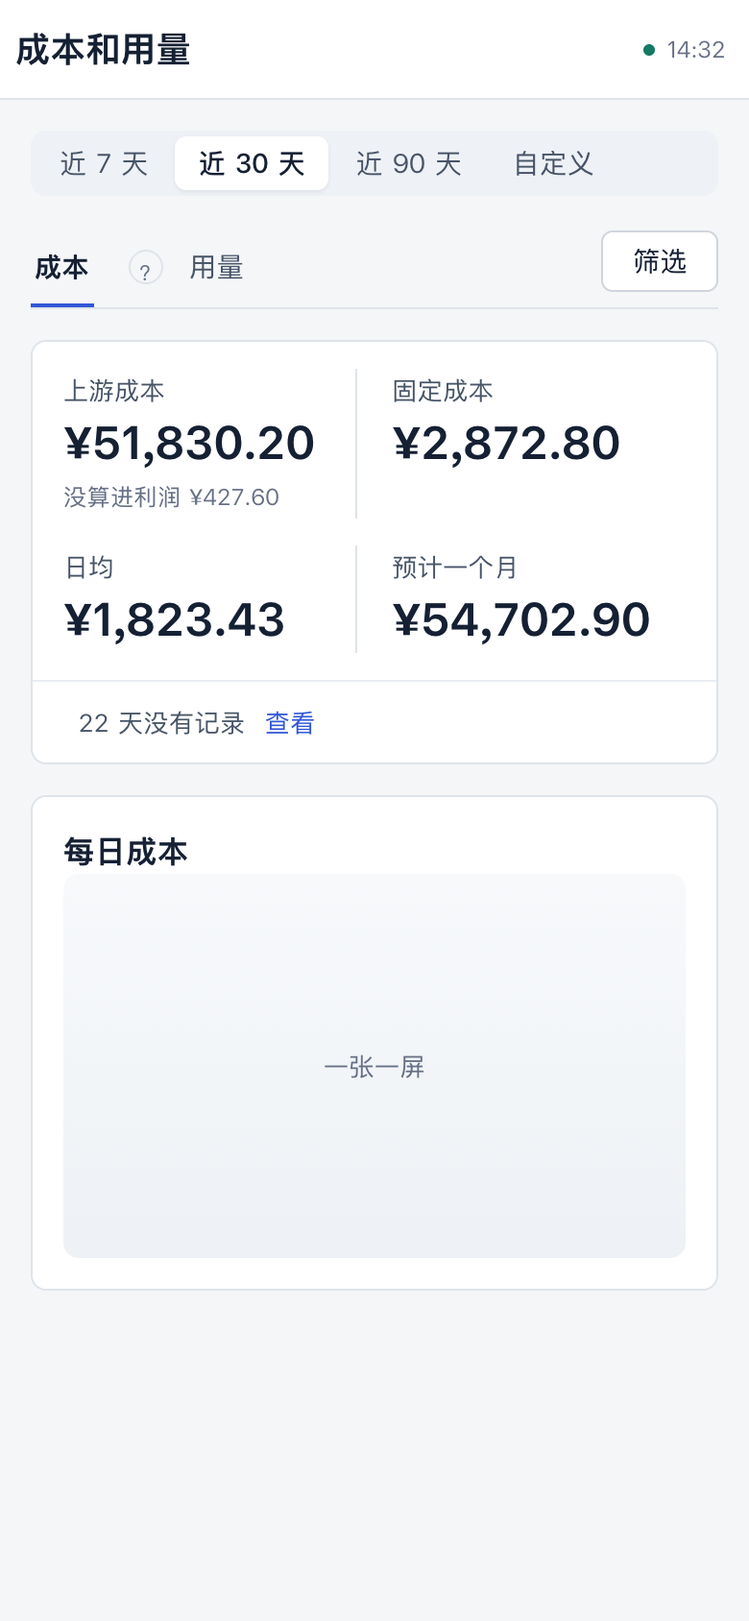
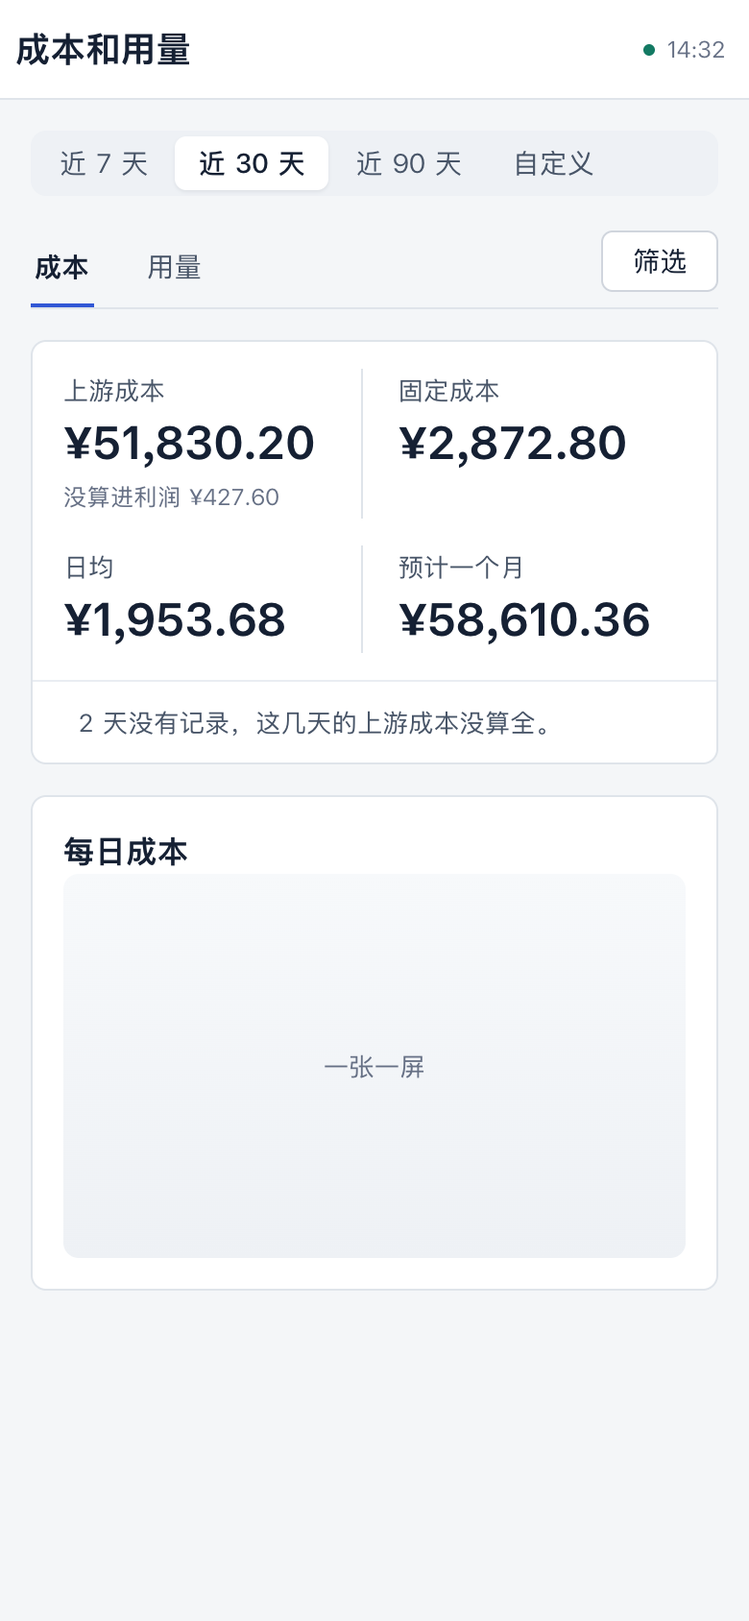
设计：合页照核对意见改——读不到、没算进去的数据、数字怎么来的照 §8.4 现成写法；趋势面板两个切换留原处；筛到自营站点留「消费」格；切页签清掉各页签自己的参数、记进历史；藏起来的页签不轮询；打包基线；测试要改的那条；样稿数据对齐；逐页版式第 6 节用量页签的排法

diff --git a/design/ux/merge-cost-usage.html b/design/ux/merge-cost-usage.html
@@ -275,18 +275,19 @@ pre.report mark { background: #FFF1C2; color: inherit; border-radius: 3px; paddi
     <div class="main">
       <header class="topbar"><h1>成本和用量</h1><div class="seg"><span>近 7 天</span><span class="on">近 30 天</span><span>近 90 天</span><span>自定义</span></div><span class="spacer"></span><span class="fresh"><i></i>数据截至 14:32</span><span class="avatar">A</span></header>
       <div class="content">
-        <div class="tabbar"><span class="t on">成本</span><span class="q">?</span><span class="t">用量</span><div class="right"><span class="chk"><i></i>包含已归档</span><span class="btn">每日利润</span></div></div>
+        <div class="tabbar"><span class="t on">成本</span><span class="t">用量</span><div class="right"><span class="chk"><i></i>包含已归档</span><span class="btn">每日利润</span></div></div>
+        <div class="oneline" style="border:0;padding:0 2px;background:none">这一页的数是按余额变化估出来的，不是上游的实际账单。<a>数字怎么来的 ›</a></div>
         <section class="panel">
           <div class="metricsN" style="grid-template-columns:repeat(4,1fr)">
             <div class="mc"><span>上游成本</span><b>¥51,830.20</b><small>算进利润 ¥51,402.60 · <a>没算进利润 ¥427.60 ›</a></small></div>
             <div class="mc"><span>固定成本</span><b>¥2,872.80</b><small>算进利润的 2 个上游，按天平摊</small></div>
-            <div class="mc"><span>日均</span><b>¥1,823.43</b><small>上游成本 + 固定成本</small></div>
-            <div class="mc"><span>预计一个月</span><b>¥54,702.90</b><small>按近 30 天的日均</small></div>
+            <div class="mc"><span>日均</span><b>¥1,953.68</b><small>按有记录的 28 天平均</small></div>
+            <div class="mc"><span>预计一个月</span><b>¥58,610.36</b><small>日均 × 30</small></div>
           </div>
-          <div class="oneline">22 天没有记录 <a>查看</a></div>
+          <div class="oneline">2 天没有记录，这几天的上游成本没算全。<a>哪些天、哪些上游缺记录</a></div>
         </section>
         <div style="display:grid;grid-template-columns:2fr 1fr;gap:24px">
-          <section class="panel"><div class="panel-head"><h2>每日成本</h2><span class="spacer"></span><div class="seg"><span class="on">每天</span><span>累计</span></div></div><div class="chartph">上游成本、固定成本按天；悬停写「成本最高的一天」</div></section>
+          <section class="panel"><div class="panel-head"><h2>每日成本</h2><span class="spacer"></span><div class="seg"><span class="on">每天</span><span>累计</span></div></div><div class="chartph">上游成本、固定成本按天；最高那根柱上标「最高 10月21日 ¥2,410.50」</div></section>
           <section class="panel"><div class="panel-head"><h2>成本构成</h2><span class="caption">按上游</span></div><div class="chartph">横向条形，照旧</div></section>
         </div>
         <div style="display:grid;grid-template-columns:2fr 1fr;gap:24px">
@@ -296,8 +297,8 @@ pre.report mark { background: #FFF1C2; color: inherit; border-radius: 3px; paddi
       </div>
     </div>
   </div>
-  <div class="ann t" style="left:282px;top:130px;max-width:260px">「数字怎么来的」收进「?」</div>
-  <div class="ann l" style="left:430px;top:272px;max-width:330px">原来那一大张「没算进去的数据」表收成这一行，点开才列</div>
+  <div class="ann l" style="left:800px;top:126px;max-width:300px">「数字怎么来的」照 §8.4 一行；句子随 G 的口径改</div>
+  <div class="ann l" style="left:780px;top:300px;max-width:300px">「没算进去的数据」照 §8.4 一行，挪到第一行下面</div>
 </section>
 
 <!-- ═══ merge-usage ═══ -->
@@ -308,31 +309,32 @@ pre.report mark { background: #FFF1C2; color: inherit; border-radius: 3px; paddi
     <div class="main">
       <header class="topbar"><h1>成本和用量</h1><div class="seg"><span>今天</span><span>近 24 小时</span><span class="on">近 7 天</span><span>近 30 天</span></div><span class="spacer"></span><span class="fresh"><i></i>数据截至 14:32</span><span class="avatar">A</span></header>
       <div class="content">
-        <div class="tabbar"><span class="t">成本</span><span class="t on">用量</span><div class="right"><span class="sel">全部上游 <span class="caption">▾</span></span><div class="seg"><span class="on">合计</span><span>按上游</span></div></div></div>
+        <div class="tabbar"><span class="t">成本</span><span class="t on">用量</span><div class="right"><span class="sel">全部上游 <span class="caption">▾</span></span></div></div>
         <section class="panel">
           <div class="metricsN" style="grid-template-columns:repeat(3,1fr)">
-            <div class="mc"><span>Token（不含缓存）</span><b>3.1 亿</b><small>只算输入和输出</small></div>
+            <div class="mc"><span>总 Token</span><b>3.1 亿</b></div>
             <div class="mc"><span>请求数</span><b>41,230</b></div>
             <div class="mc"><span>读到的上游</span><b>3 <span style="font-size:14px;color:var(--ink-3);font-weight:400">/ 5 个上游</span></b></div>
           </div>
-          <div class="oneline"><svg class="sym c-warn"><use href="#warn"/></svg>2 个上游读不到用量，合计里不含它们 <a>看原因 ▴</a></div>
+          <div class="oneline" style="border-top:0;padding-top:0;color:var(--ink-3)">Token（不含缓存）：只算输入和输出</div>
+          <div class="oneline"><svg class="sym c-warn"><use href="#warn"/></svg>2 个上游的用量读不到，合计里不含它们 <a>看原因 ▴</a></div>
           <ul class="fails">
-            <li><span>拼车团队：<span class="c">登录信息不对或过期了</span></span><span class="btn sm">更新登录信息</span></li>
-            <li><span>Key 计费站：<span class="c">对方的版本不支持这项功能</span></span><span class="btn sm">查看详细原因</span></li>
+            <li><span>拼车团队：<span class="c">登录信息不对或过期了。</span> <a style="color:var(--cobalt);font-size:12px">查看详细原因</a></span><span class="btn sm">更新登录信息</span></li>
+            <li><span>Key 计费站：<span class="c">对方的版本不支持这项功能。</span> <a style="color:var(--cobalt);font-size:12px">查看详细原因</a></span><span></span></li>
           </ul>
         </section>
         <div style="display:grid;grid-template-columns:2fr 1fr;gap:24px">
-          <section class="panel"><div class="panel-head"><h2>Token 用量趋势</h2><span class="spacer"></span><div class="seg"><span class="on">按天汇总</span><span>按小时汇总</span></div></div><div class="chartph">照旧</div></section>
+          <section class="panel"><div class="panel-head"><h2>Token 用量趋势</h2><span class="caption">按天汇总</span><span class="spacer"></span><div class="seg"><span class="on">合计</span><span>按上游</span></div><div class="seg" style="margin-left:8px"><span class="on">图表</span><span>表格</span></div></div><div class="chartph">照旧</div></section>
           <section class="panel"><div class="panel-head"><h2>各模型 Token</h2></div><div class="chartph">照旧，最多 10 项</div></section>
         </div>
         <section class="panel"><div class="panel-head"><h2>模型明细</h2><span class="caption">共 18 个模型</span></div>
           <table class="table"><thead><tr><th>模型</th><th class="r">总 Token</th><th class="r">输入/输出</th><th class="r">请求数</th><th class="r">上游成本</th></tr></thead>
-            <tbody><tr><td>gpt-4.1</td><td class="r num">1.2 亿</td><td class="r num">0.9 亿 / 0.3 亿</td><td class="r num">12,840</td><td class="r num">¥18,220.40</td></tr></tbody></table><div style="height:10px"></div></section>
+            <tbody><tr><td>gpt-4.1</td><td class="r num">1.2 亿</td><td class="r num">0.9 亿 / 0.3 亿</td><td class="r num">12,840</td><td class="r num">¥18,220.40</td></tr></tbody></table><div class="oneline">没设置汇率的提示放在这里（写法随 G 的币2）</div></section>
       </div>
     </div>
   </div>
   <div class="ann l" style="left:700px;top:14px;max-width:340px">各页签自己的时间范围；近 7 天、近 30 天切页签时带过去</div>
-  <div class="ann t" style="left:1000px;top:424px;max-width:330px">每一行按原因给一个按钮；暂时读不到的不带按钮，写「下次刷新会再读」</div>
+  <div class="ann t" style="left:1000px;top:448px;max-width:330px">每一行按原因给一个按钮；版本不支持、暂时读不到的不带按钮</div>
 </section>
 
 <!-- ═══ merge-mobile ═══ -->
@@ -342,15 +344,15 @@ pre.report mark { background: #FFF1C2; color: inherit; border-radius: 3px; paddi
     <header class="topbar"><h1>成本和用量</h1><span class="spacer"></span><span class="fresh"><i></i>14:32</span></header>
     <div class="content">
       <div class="seg" style="display:flex;overflow:hidden"><span>近 7 天</span><span class="on">近 30 天</span><span>近 90 天</span><span>自定义</span></div>
-      <div class="tabbar"><span class="t on">成本</span><span class="q">?</span><span class="t">用量</span><div class="right"><span class="btn">筛选</span></div></div>
+      <div class="tabbar"><span class="t on">成本</span><span class="t">用量</span><div class="right"><span class="btn">筛选</span></div></div>
       <section class="panel">
         <div class="metricsN">
           <div class="mc"><span>上游成本</span><b>¥51,830.20</b><small>没算进利润 ¥427.60</small></div>
           <div class="mc"><span>固定成本</span><b>¥2,872.80</b></div>
-          <div class="mc"><span>日均</span><b>¥1,823.43</b></div>
-          <div class="mc"><span>预计一个月</span><b>¥54,702.90</b></div>
+          <div class="mc"><span>日均</span><b>¥1,953.68</b></div>
+          <div class="mc"><span>预计一个月</span><b>¥58,610.36</b></div>
         </div>
-        <div class="oneline">22 天没有记录 <a>查看</a></div>
+        <div class="oneline">2 天没有记录，这几天的上游成本没算全。</div>
       </section>
       <section class="panel"><div class="panel-head"><h2>每日成本</h2></div><div class="chartph" style="margin:0 16px 16px">一张一屏</div></section>
     </div>

diff --git a/design/ux/merge-cost-usage.md b/design/ux/merge-cost-usage.md
@@ -9,7 +9,7 @@
 > - [逐页版式](./page-layouts.md)第 6 节：合页以后两个页签各放什么；
 > - [G 等式只放两处](./g-equation.md)第 5.2 节（用户 10-25 定）：「成本」页签第一行四格、上游成本拆成两半、去掉等式和两张利润图。
 >
-> 对应规范：用语规范 §3.4、§8.1、§8.4、§11，设计规范 §2.2（侧栏）、§5.4、§5.5。要新加的说法在第 9 节「拟改条目」（编号「合1」起）。
+> 对应规范：用语规范 §3.4、§8.1、§8.4、§11，设计规范 §2.1、§2.2、§5.4、§5.5。要新加的说法在第 9 节「拟改条目」（编号「合1」起）。
 >
 > 样稿：[merge-cost-usage.html](./merge-cost-usage.html)，截图在 `screens/merge-*.png`；「现在」的截图 `screens/merge-now-*.png` 是在自己的预览（3200、演示数据）里截的。演示上游读不到用量（演示数据的限制，不是产品问题），所以用量那张是「都读不到」的样子。
 
@@ -18,19 +18,19 @@
 | 项 | 写什么 |
 |---|---|
 | 用户目标 | 想知道「钱和量花在哪些上游、模型上，还能用几天」时，只去一个地方 |
-| 流程 | 改前：成本在「经营」组的成本估算，Token 在「监控」组的用量分析，两页各有一套时间范围；用量分析的「上游成本」一格和成本估算重；用量分析读不到时只有一句话、没有按钮，哪里也去不了。改后：侧栏一项「成本和用量」，一页两个页签，点进来是「成本」，切到「用量」不换页、时间范围能带过去的就带过去；读不到的每一行有一个去处按钮 |
-| 省掉了什么 | 侧栏少一项；在两页之间来回跳；用量页那一格重复的上游成本；成本页那一长段「数字怎么来的」和一大张「没算进去的数据」表（收成一行） |
+| 流程 | 改前：看成本点侧栏「经营」组的成本估算，看 Token 再点侧栏「监控」组的用量分析：2 次换页、两套时间范围，用量页还有一格和成本页重复的上游成本；用量读不到时只有一句话，没有能点的。改后：侧栏一项「成本和用量」，进来是「成本」，点一下页签到「用量」，不换页；近 7 天、近 30 天切页签时带过去；读不到用量的每一行有一个去处按钮 |
+| 省掉了什么 | 侧栏少一项；一次换页；用量页那一格重复的上游成本；成本页的利润等式和两张利润图（G）；累计成本图（并进每日成本图）；「成本概况」块（挪成第一行） |
 | 还要用户做的 | 只是看；读不到用量时点那一行的按钮去处理 |
-| 对照原则 | §1.2 第 4 条（一个目标一条路：「花在哪」一个入口）、第 5 条（先结论，说明收起）；§1.4 第 1 条（一页回答一个问题，两个页签是同一个问题的两面）、第 2 条（同一个数一页只出现一次：上游成本只在「成本」页签）、第 3 条（8 + 4 分栏） |
-| 版式 | 页顶：页名、时间范围、刷新；下面一排页签「成本」「用量」。每个页签：第一行指标，第二、三行 8 + 4。手机：页签在顶，指标两列小格，图一张一屏 |
+| 对照原则 | §1.2 第 4 条（一个目标一条路：「花在哪」一个入口）、第 5 条（先结论）；§1.4 第 1 条（一页回答一个问题，两个页签是同一个问题的两面）、第 2 条（同一个数一页只出现一次：上游成本只在「成本」页签）、第 3 条（8 + 4 分栏）。没有违反的 |
+| 版式 | 页顶：页名、这个页签的时间范围、数据截至、刷新；下面一排页签「成本」「用量」。成本：第一行四格，第二、三行 8 + 4。用量：第一行三格，第二行 8 + 4，第三行模型明细 12 列。手机：页签在顶，指标两列小格，图一张一屏 |
 | 改动大小 | 中。一个路由装两个页签，旧地址跳转；侧栏、页面名改；用量页签的内容基本照搬，成本页签照 G 第 5.2 节。服务端不改，两个页签各读各的接口 |
 
 ## 1. 用户要达到什么、现在什么样
 
 财务、运营问「钱和量花在哪」，现在要看两页：
 
-- **成本估算**（`/analytics`，侧栏「经营」组）：一页 2300 多高，从上到下是数字怎么来的、利润等式、收入与上游成本图、每日净利图、成本构成、花费时段、可用天数、成本概况、累计成本图、没算进去的数据。G 已经定了去掉等式和两张利润图。
-- **用量分析**（`/usage`，侧栏「监控」组）：上游筛选、四格合计（总 Token、上游成本、请求数、读到的上游）、读不到的上游、Token 用量趋势、各模型 Token、模型明细。
+- **成本估算**（`/analytics`，侧栏「经营」组）：一页 2300 多高。从上到下：「数字怎么来的」一行、利润等式、收入与上游成本图、每日净利图、成本构成、花费时段、可用天数、成本概况、累计成本图、没算进去的数据。G 已经定了去掉等式和两张利润图。
+- **用量分析**（`/usage`，侧栏「监控」组）：上游筛选、四格合计（总 Token、上游成本、请求数、读到的上游）、读不到的上游、Token 用量趋势（合计 / 按上游，图表 / 表格）、各模型 Token、模型明细。
 
 ![](./screens/merge-now-analytics.png)
 
@@ -40,18 +40,17 @@
 
 1. 同一个问题分在两页、两个侧栏分组里，时间范围也不一样（成本：近 7 / 30 / 90 天、自定义；用量：今天、近 24 小时、近 7 / 30 天）。
 2. 用量页的「上游成本」一格和成本页重，两边的数还不一定一样。
-3. 用量页读不到时只写「地址或类型可能不对，请检查后再填」，没有按钮（体检 §8.3）。
-4. 成本页说明太多：顶上一段、等式下面一段、最下面一张表。
+3. 用量页读不到时，每个上游只有一句原因和「查看详细原因」，没有能去处理的按钮（体检 §8.3）。
 
 ## 2. 一页两个页签
 
 | 页签 | 回答 | 第一行 |
 |---|---|---|
 | **成本**（默认） | 钱花在哪些上游，还能用几天 | 上游成本、固定成本、日均、预计一个月（G 第 5.2 节） |
-| **用量** | Token 和请求用在哪些上游、模型上 | Token、请求数、读到的上游 |
+| **用量** | Token 和请求用在哪些上游、模型上 | 总 Token、请求数、读到的上游 |
 
 - 两个页签是同一个问题的两面（钱、量），所以放在一页，不各占侧栏一项。
-- **金额只在「成本」页签。**「用量」页签的第一行不再有「上游成本」那一格（§1.4 第 2 条）；模型明细表里每个模型的上游成本那一列留着，那是按模型拆开的，成本页签没有。
+- **上游成本只在「成本」页签的第一行。**「用量」页签的第一行不再有「上游成本」那一格（§1.4 第 2 条）。模型明细表里每个模型的上游成本那一列留着：那是按模型拆开的，成本页签没有。
 - 页名「成本和用量」（逐页版式第 6 节已经这样叫），侧栏一项，放在「经营」组，原来「成本估算」的位置；「监控」组的「用量分析」去掉。
 
 ## 3. 页顶（样稿 merge-cost、merge-usage）
@@ -62,15 +61,15 @@
 成本  用量                                          ☐ 包含已归档   [每日利润]
 ```
 
-- 顶栏：页名、这个页签的时间范围、数据截至、刷新（和别的页一样）。
+- 顶栏：页名、这个页签的时间范围、数据截至、刷新（和别的页一样）。时间范围、数据截至、刷新都只管当前页签。
 - 顶栏下面一排页签，右边放这个页签自己的东西：
   - 成本：「包含已归档」、「每日利润」按钮（G 第 5.2 节：去看利润的路）；
-  - 用量：上游筛选、「合计 / 按上游」（现在就有，照搬）。
+  - 用量：上游筛选（「全部上游」、各上游、自营站点；「「全部」不含自营站点」那句放进下拉的第一行）。
 - **两个页签各有自己的时间范围**，不硬合成一套：
   - 成本：近 7 天、近 30 天（默认）、近 90 天、自定义。按天算，没有「今天」「近 24 小时」。
   - 用量：今天（默认）、近 24 小时、近 7 天、近 30 天。要读上游的逐条用量，90 天和自定义太重（第 10 节），不加。
   - **切页签时能带过去的就带过去**：两边都有的是近 7 天、近 30 天，选着这两个切页签，范围不变；选着别的，切过去用那个页签的默认。顶栏的选项跟着页签换，不会出现选不了的。
-- 「数字怎么来的」收进页签名旁的「?」，点开才看（逐页版式第 6 节；体检 §7.16）。
+- 「数字怎么来的」照 §8.4 现成的那一行，放在成本页签第一行上面：收起时一句结论，按钮「数字怎么来的」。句子随 G 定的口径改（上游成本拆成算进利润、没算进利润以后，那句「按余额变化估出来的」要跟着改，G 实现时定）。
 
 ## 4. 「成本」页签（样稿 merge-cost）
 
@@ -80,18 +79,20 @@
 
 | 现在（成本估算） | 合页以后 |
 |---|---|
-| 顶上「这一页的数是按余额变化估出来的……」「数字怎么来的」 | 收进页签名旁「?」 |
+| 「数字怎么来的」那一行 | 照旧，在第一行上面（第 3 节） |
 | 利润等式 | 去掉（G） |
 | 收入与上游成本图、每日净利图 | 去掉（G：按天看利润在每日利润） |
-| 成本概况（总成本、日均、最高一天、预计一个月） | 挪上来当第一行四格：上游成本、固定成本、日均、预计一个月。「成本最高的一天」放进每日成本图的悬停里 |
+| 成本概况（总成本、日均、最高一天、预计一个月） | 挪上来当第一行四格：上游成本、固定成本、日均、预计一个月 |
+| 成本最高的一天 | 在每日成本图里最高那根柱上标「最高 10月21日 ¥2,410.50」，悬停也有 |
 | 累计成本图 | 并进每日成本图，右上角切「每天 / 累计」 |
 | 成本构成 | 第二行右边 4 列，照旧 |
 | 可用天数 | 第三行左边 8 列，照旧 |
-| 花费时段 | 第三行右边 4 列，照旧 |
-| 没算进去的数据（一大张表） | 收成第一行下面一行「22 天没有记录 [查看]」，点开才列表 |
+| 花费时段（含「没有逐小时记录时退回近 7 天」那句和按钮） | 第三行右边 4 列，照旧 |
+| 没算进去的数据 | 照 §8.4 现成的那一行（「2 天没有记录，这几天的上游成本没算全。」按钮「哪些天、哪些上游缺记录」），放在第一行下面；不缺记录时不出 |
 | 包含已归档 | 页签那一排右边 |
+| 没有上游、第一次读的骨架、读不到 | 照现在的写法，只是放在页签下面 |
 
-第一行四格的说法照 G 第 5.2 节（上游成本拆成「算进利润 · 没算进利润」两半写，固定成本「算进利润的 2 个上游，按天平摊」，日均和预计一个月没设置汇率时写「—」）。
+第一行四格的说法照 G 第 5.2 节：上游成本拆成「算进利润 · 没算进利润」两半写；固定成本「算进利润的 2 个上游，按天平摊」；日均、预计一个月照现在按有记录的天数平均（下面写「按有记录的 28 天平均」），没设置汇率时写「—」。
 
 ## 5. 「用量」页签（样稿 merge-usage）
 
@@ -99,12 +100,15 @@
 
 | 现在（用量分析） | 合页以后 |
 |---|---|
-| 上游筛选、「合计 / 按上游」 | 页签那一排右边，照旧（「全部」不含自营站点那句放进筛选的下拉里） |
-| 四格合计：总 Token、上游成本、请求数、读到的上游 | 三格：Token、请求数、读到的上游。上游成本去掉（在成本页签） |
-| 读不到的上游（一整块黄底，按上游列原因） | 收成第一行下面一行「5 个上游读不到用量 [看原因]」（逐页版式第 6 节）；展开以后**每一行带一个去处按钮**（合2，体检 §8.3 建议 1） |
-| Token 用量趋势（按小时 / 按天，图表 / 表格） | 第二行左边 8 列，照旧 |
+| 上游筛选 | 页签那一排右边（第 3 节） |
+| 四格合计：总 Token、上游成本、请求数、读到的上游 | 三格：总 Token、请求数、读到的上游。上游成本去掉（在成本页签）。**筛到自营站点时**照现在多一格「消费」（用户花的钱，不是上游成本，成本页签没有） |
+| 合计下面的脚注「Token（不含缓存）：只算输入和输出」 | 照旧 |
+| 合计格下面「N 个上游没设置汇率……」「没设置售价……」的提示 | 挪到模型明细表下面（那一列还有金额）；写法随 G 的币2 |
+| 读不到的上游（黄条，§8.4） | 照 §8.4 现成的写法：「2 个上游的用量读不到，合计里不含它们」[看原因]；全都读不到时默认展开、三格只写「—」。**展开以后每一行多一个去处按钮**（合2，体检 §8.3 建议 1），「查看详细原因」照旧 |
+| Token 用量趋势（「合计 / 按上游」「图表 / 表格」两个切换在面板头里） | 第二行左边 8 列，照旧，两个切换还在面板头里 |
 | 各模型 Token | 第二行右边 4 列，照旧 |
-| 模型明细 | 第三行 12 列，照旧（每个模型的上游成本那一列留着；单独看自营站点时那一列叫「消费」，照旧） |
+| 模型明细（Token 列名带「不含缓存」的悬停） | 第三行 12 列，照旧 |
+| 这段时间没有用量、第一次读的骨架 | 照旧 |
 
 读不到的每一行给什么按钮（按 §8.2 的原因，取 §3.5 现成的按钮）：
 
@@ -112,33 +116,37 @@
 |---|---|
 | 登录信息不对或过期了；令牌作废、少了权限 | 更新登录信息 |
 | 地址或类型可能不对 | 编辑上游 |
-| 对方的版本不支持这项功能 | 查看详细原因（没有能做的事，§5.2 现成的那一行） |
-| 暂时读不到（网络、超时） | 没有按钮，写「下次刷新会再读」 |
+| 对方的版本不支持这项功能 | 不加按钮（没有能做的事），只有「查看详细原因」 |
+| 暂时读不到（网络、超时） | 不加按钮，原因后面写「下次刷新会再读」 |
 
 ## 6. 从哪里点进来、落在哪
 
 | 从哪 | 现在去 | 合页以后落在 |
 |---|---|---|
 | 侧栏「成本和用量」 | —— | 成本页签，近 30 天 |
-| 运营总览等式里的「上游成本」 | 成本估算 | 成本页签，带上总览的时间范围：近 7 天、近 30 天照搬；「今天」成本页签没有，落近 7 天 |
-| 自营业务 · 每日收入图下面那句「……去成本估算看上游成本」里的链接 | 成本估算，带范围 | 成本页签，带范围（同上）；链接名跟着改成「成本和用量」 |
-| 每日利润页顶「成本估算」按钮 | 成本估算 | 按钮名改「成本和用量」，落成本页签（E 以后这个按钮还在页顶次要按钮里） |
-| 旧地址 `/usage`（书签、日报以外的旧链接） | 用量分析 | 跳到用量页签，带上原来的 range、station、group |
+| 运营总览等式里的「上游成本」 | 成本估算（不带范围） | 成本页签，照旧不带范围（近 30 天）。G 第 3 节也是「照旧」 |
+| 自营业务 · 每日收入图下面那句「上游成本在成本估算里看」 | 成本估算，带范围 | 成本页签，带范围：近 7 天、近 30 天照搬，「今天」落近 7 天；链接名跟着改成「成本和用量」 |
+| 每日利润页顶「成本估算」按钮 | 成本估算 | 按钮名改「成本和用量」，落成本页签 |
+| 旧地址 `/usage` | 用量分析 | 跳到用量页签，带上原来的 range、station、group |
 | 旧地址 `/analytics` | 成本估算 | 不变，就是成本页签 |
 
-日报、推送里没有链到这两页的地方（查过 `server/`），不用改。
+查过代码：链到 `/usage` 的只有侧栏；日报、推送里没有链到这两页的地方，不用改。
 
 ## 7. 地址
 
-- 页面还是 `/analytics`，页签用 `tab` 参数：`/analytics`（成本）、`/analytics?tab=usage`（用量）。沿用现有地址，书签和总览的链接都不用改；页签用参数而不是新路径，是因为两个页签共用一个页顶和一套刷新。
-- 时间范围照旧用 `range`（成本页签还有 `start`、`archived`；用量页签还有 `station`、`group`）。同一个 `range` 在两个页签里的取值不一样，按 `tab` 解读；切页签时照第 3 节带过去或换成默认。
-- `/usage` 永久跳到 `/analytics?tab=usage`，原来的参数原样带上。
+- 页面还是 `/analytics`，页签用 `tab` 参数：`/analytics`（成本）、`/analytics?tab=usage`（用量）。沿用现有地址，书签和各处链接都不用改；页签用参数而不是新路径，是因为两个页签共用一个页顶。
+- `tab` 不认识的，当成本页签。
+- 时间范围照旧用 `range`，按 `tab` 解读：成本页签认 7d、30d、90d（自定义用 `start`），用量页签认 today、24h、7d、30d。不认识的，用这个页签的默认。
+- **切页签**：
+  - 新地址里只留 `tab` 和能带过去的 `range`（7d、30d）；`start`、`archived`、`station`、`group` 是各页签自己的，不带过去。
+  - 切页签记进浏览历史（按返回键回到上一个页签），切时间范围、筛选照旧不记（现在 `useUrlState` 的做法）。
+- `/usage` 永久跳到 `/analytics?tab=usage`，原来的参数原样带上。`/usage` 以后不再用作别的页，浏览器缓存这次跳转也没关系。
 - 页面标题：「成本和用量 · 炬元」，两个页签一样。
 
 ## 8. 手机
 
 - 顶栏：页名、时间范围（横滑）、刷新。
-- 页签在顶栏下面一排，「包含已归档」「每日利润」、上游筛选和「合计 / 按上游」收进页签右边的「筛选」里。
+- 页签在顶栏下面一排，「包含已归档」「每日利润」和上游筛选收进页签右边的「筛选」里。
 - 指标两列小格；图一张一屏；表格转列表（逐页版式第 6 节）。
 
 ## 9. 拟改条目
@@ -147,35 +155,41 @@
 
 **ui-copy-spec.md**
 
-- **合1（§11 页面名那张表）**：「用量 · 用量分析 · 不改」「估算 · 监控估算 · 成本估算」两行合成一行「成本和用量 · 用量分析、成本估算 · 成本和用量（两个页签：成本、用量）」。标签页那张表：「用量分析」「成本估算」两行合成「成本和用量」一行：页签「成本」「用量」；区块名照原来两行（各模型 Token、花费时段、没算进去的数据、数字怎么来的……）。每日利润页顶那个按钮的名字跟着改成「成本和用量」。
-- **合2（§8.4 读不到的上游那一条后面）**：展开的每一行带一个去处按钮，按原因取：「更新登录信息」「编辑上游」「查看详细原因」；暂时读不到的不带按钮，写「下次刷新会再读」。
-- **合3（§8.4）**：「没算进去的数据」收成一行「22 天没有记录 [查看]」；「读不到的上游」收成一行「5 个上游读不到用量 [看原因]」。（逐页版式第 6 节说过，这里定字。）
+- **合1（§11 页面名那张表）**：「用量 · 用量分析 · 不改」「估算 · 监控估算 · 成本估算」两行合成一行「成本和用量 · 用量分析、成本估算 · 成本和用量（两个页签：成本、用量）」。标签页那张表：「用量分析」「成本估算」两行合成「成本和用量」一行：页签「成本」「用量」，区块名照原来两行。另外，规范里点名「成本估算」「用量分析」的地方（用语规范 30 行、设计规范 16 行，`grep` 数的）随合页一起改成「成本和用量」或「成本页签」「用量页签」；界面上还有一处写死的：告警中心 `notifications/copy.ts` 的 `linesCaption`（「……成本估算里标不标……」）。
+- **合2（§8.4「用量分析，有上游读不到」那一行的「展开后」）**：每个上游一行「上游名：原因。」，按原因多一个去处按钮：「更新登录信息」「编辑上游」；对方版本不支持的、暂时读不到的不加按钮，暂时读不到的原因后面写「下次刷新会再读」；「查看详细原因」照旧。
+- **合3（§8.4 那张表的「在哪」一列）**：「成本估算顶上」「成本估算「没算进去的数据」」「用量分析，有上游读不到」「用量分析，全都读不到」改成「成本页签……」「用量页签……」，写法不变。
 
 **ui-design-spec.md**
 
-- **§2.2 侧栏**：「监控」组去掉「用量分析」；「经营」组「成本估算」改成「成本和用量」。
+- **§2.1 导航分组、§2.2 应用外壳的示意图**：「监控」组去掉「用量分析」；「经营」组「成本估算」改成「成本和用量」。
 - **§5.4、§5.5**：合成一节「成本和用量 `/analytics`」，写两个页签各放什么（第 4、5 节）、页签那一排右边放什么、切页签带不带时间范围（第 3 节）。
+
+**逐页版式第 6 节**（本 PR 里一起改了）：用量页签「第二行：用量表 12 列」改成「第二行：Token 用量趋势 8 列 + 各模型 Token 4 列；第三行：模型明细 12 列」。
 
 **lib/brand.js 的 `NAV_LABELS`**（不是规范，随合页的 PR 改）：`analytics` 改「成本和用量」，`usage` 删掉。
 
 ## 10. 给开发的几点（只说页面要什么，不定怎么做）
 
-- **只读当前页签的数据。**打开成本页签不读用量接口，切到用量页签才读；切回来用已经读过的（各自现在就有缓存）。
-- **打包**：两页合成一个路由，首屏不能把两个页签的代码都带上。用量页签的组件按需加载，首屏（成本页签）的大小不比现在的成本估算大 30 KB 以上（性能门槛）。
+- **只读当前页签的数据。**打开成本页签不读用量接口，切到用量页签才读。现在用量的 30 秒缓存放在组件里（`useRef`），成本页没有缓存，切页签把组件卸掉就都丢了：要么两个页签第一次打开以后都留着、只是藏起来，要么把缓存提到页面那一层，开发定。
+- **藏起来的页签不轮询。**用量页签的 30 秒重读、回到前台时的重读，只在它是当前页签时跑；顶栏的数据截至、刷新、时间范围（`useShellPage`）只注册当前页签的。
+- **打包**：两页合成一个路由，首屏不能把两个页签的代码都带上。用量页签按需加载：`@ant-design/plots` 现在只有用量页用，不该进成本页签的首屏。先量一次现在 `/analytics` 首屏的 JS 当基线，合页以后成本页签首屏不比它大 30 KB 以上（性能门槛）。
 - **跳转**：`/usage` 在服务端永久跳转（带参数），不在页面里先渲染再跳。
+- **成本页签里认 `tab` 的几处**：花费时段「退回近 7 天」那个按钮、`href30`（`/analytics` 或 `/analytics?archived=1`）这类自己拼地址的，都要带上 `tab`（成本页签就是不带）。
 - **侧栏**：`lib/nav.js` 去掉 `usage` 一项；`analytics` 的标签改名。侧栏「需处理」的数字和这一页无关，不动。
-- **不改接口**：成本页签照 G 读它要的，用量页签读 `/api/usage`。
-- **性能**：用量页签的时间范围不加 90 天和自定义：逐条用量的读法按小时、按天聚合，范围越长越重，现在最长 30 天。这次不改接口，也就不加。
-- **界面测试**：原来两页的用例并到一处；加三条：切页签时近 7 天带过去、今天切到成本变近 30 天；`/usage?range=7d&station=…` 跳到用量页签并保留参数；读不到的每一行按钮对。
+- **不改接口**：成本页签照 G 读它要的，用量页签读 `/api/usage`。用量页签的时间范围不加 90 天和自定义：逐条用量按小时、按天聚合，范围越长越重，现在最长 30 天，这次不改接口也就不加。
+- **界面测试**：
+  - 原来两页的用例并到一处。`tests/reconciliation-ui.test.mjs` 里直接打开 `/usage`、再用 `split("?")[0]` 拼 `?station=…` 的那条要改（跳转以后会丢 `tab=usage`）；合计格的「—」从 3 个变成 2 个。
+  - 加：切页签时近 7 天带过去、今天切到成本变近 30 天、`start`/`station` 不带过去；按返回键回到上一个页签；`/usage?range=7d&group=upstream` 跳到用量页签并保留参数；读不到的每一行按钮对；只打开成本页签时没有 `/api/usage` 请求。
 
 ## 11. 验收清单（给审核与测试）
 
 1. 侧栏只有一项「成本和用量」，在「经营」组；「监控」组没有「用量分析」。
 2. 点侧栏落在成本页签、近 30 天；页面标题「成本和用量 · 炬元」。
-3. 成本页签：第一行四格（照 G）；没有等式、收入与上游成本图、每日净利图、累计成本图（并进每日成本图的「累计」）、成本概况块；「没算进去的数据」只有一行，点开才列；「数字怎么来的」在「?」里。
-4. 用量页签：第一行三格，没有「上游成本」；读不到的上游一行，展开后每一行的按钮照第 5 节的表；趋势、各模型、模型明细和现在一样。
-5. 成本页签选近 7 天切到用量：还是近 7 天。用量页签选今天切到成本：变成近 30 天。
+3. 成本页签：「数字怎么来的」一行在最上面；第一行四格（照 G）；没有等式、收入与上游成本图、每日净利图、成本概况块；累计成本在每日成本图的「累计」里；最高那根柱有标记；「没算进去的数据」照 §8.4 一行。
+4. 用量页签：第一行三格，没有「上游成本」（筛到自营站点时多一格「消费」）；读不到的上游一行，展开后每一行的按钮照第 5 节的表；趋势面板头里有「合计 / 按上游」「图表 / 表格」；没设置汇率、售价的提示在模型明细下面。
+5. 成本页签选近 7 天切到用量：还是近 7 天。用量页签选今天切到成本：变成近 30 天。成本页签勾了「包含已归档」，切到用量再切回来：不带过去，回到默认。按返回键回到上一个页签。
 6. 打开 `/usage?range=7d&group=upstream`：落在用量页签，近 7 天、按上游。
-7. 运营总览点「上游成本」：落成本页签，带上总览的范围（今天落近 7 天）。每日利润页顶的按钮叫「成本和用量」。
-8. 只打开成本页签时，网络里没有 `/api/usage` 的请求；切到用量才有。
-9. 手机 390：页签在顶；筛选收进「筛选」；指标两列。
+7. 运营总览点「上游成本」：落成本页签、近 30 天。每日利润页顶的按钮叫「成本和用量」。
+8. 只打开成本页签时，网络里没有 `/api/usage` 的请求；切到用量才有；切回成本页签以后，用量那边不再每 30 秒重读。
+9. 成本页签首屏的 JS 不比合页以前的成本估算大 30 KB 以上（量出来的数写进 PR）。
+10. 手机 390：页签在顶；筛选收进「筛选」；指标两列。

diff --git a/design/ux/page-layouts.md b/design/ux/page-layouts.md
@@ -165,7 +165,7 @@
   - 「数字怎么来的」收进标题旁「?」；「没算进去的数据」收成一行「22 天没有记录 [查看]」。
 - **用量**页签：
   - 第一行指标：Token、请求数、读到的上游；
-  - 第二行：用量表 12 列；
+  - 第二行：Token 用量趋势 8 列 + 各模型 Token 4 列；第三行：模型明细 12 列（[合页设计稿](./merge-cost-usage.md)第 5 节）；
   - 读不到的上游收成一行「5 个上游读不到用量 [查看]」，展开才列原因。
 
 **手机**：指标两列小格；图一张一屏；表格转列表。
